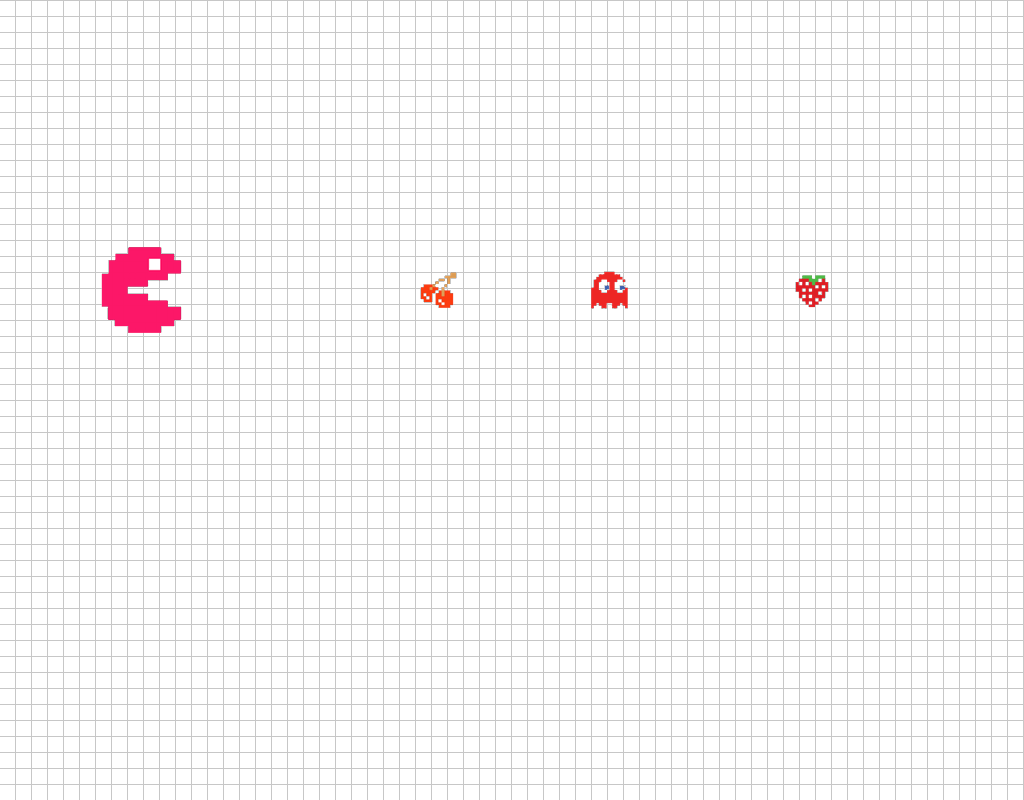
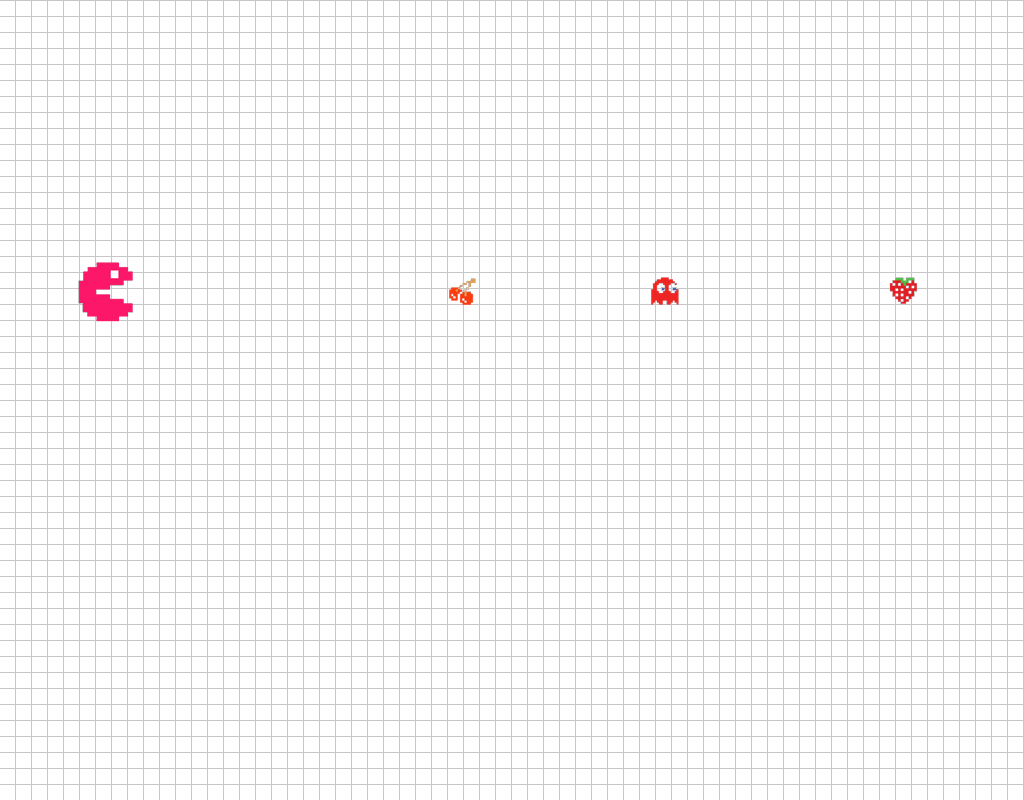
minor css

diff --git a/index.html b/index.html
@@ -14,7 +14,7 @@
 
     .pages UL LI {
   font-size: 1em !important;
-}
+  }
   .pages UL LI:nth-child(1) {
   font-size: 1.4em !important;
   border-bottom: 1px solid white;
@@ -165,8 +165,8 @@ function updateParralax() {
     $("#pacmanspace").css('height',3*(16/(1024.0/parallaxWidth)) )
   } else {
     //computer
-    $("#parallax").css('background-position-y',$("#pages").height()+$("#title").height()+30- 17*(16/(1024.0/parallaxWidth)))
-    $("#pacmanspace").css('height',3*(16/(1024.0/parallaxWidth)) )
+    $("#parallax").css('background-position-y',$("#pages").height()+$("#title").height()+30- 17.7*(16/(1024.0/parallaxWidth)))
+    $("#pacmanspace").css('height',2*(16/(1024.0/parallaxWidth)) )
     //alert($("#pages").height())
   }
 }

diff --git a/about-me.html b/about-me.html
@@ -139,8 +139,8 @@ function updateParralax() {
     $("#pacmanspace").css('height',3*(16/(1024.0/parallaxWidth)) )
   } else {
     //computer
-    $("#parallax").css('background-position-y',$("#pages").height()+$("#title").height()+30- 17*(16/(1024.0/parallaxWidth)))
-    $("#pacmanspace").css('height',3*(16/(1024.0/parallaxWidth)) )
+    $("#parallax").css('background-position-y',$("#pages").height()+$("#title").height()+30- 17.7*(16/(1024.0/parallaxWidth)))
+    $("#pacmanspace").css('height',2*(16/(1024.0/parallaxWidth)) )
     //alert($("#pages").height())
   }
   $(".leftcolumn").css('min-height',$(window).height() - $("#parallax")[0].getBoundingClientRect().height)

diff --git a/computervision.html b/computervision.html
@@ -168,8 +168,8 @@ function updateParralax() {
     $("#pacmanspace").css('height',3*(16/(1024.0/parallaxWidth)) )
   } else {
     //computer
-    $("#parallax").css('background-position-y',$("#pages").height()+$("#title").height()+30- 17*(16/(1024.0/parallaxWidth)))
-    $("#pacmanspace").css('height',3*(16/(1024.0/parallaxWidth)) )
+    $("#parallax").css('background-position-y',$("#pages").height()+$("#title").height()+30- 17.7*(16/(1024.0/parallaxWidth)))
+    $("#pacmanspace").css('height',2*(16/(1024.0/parallaxWidth)) )
     //alert($("#pages").height())
   }
 }

diff --git a/posts/mosaicing.html b/posts/mosaicing.html
@@ -163,8 +163,8 @@ function updateParralax() {
     $("#pacmanspace").css('height',3*(16/(1024.0/parallaxWidth)) )
   } else {
     //computer
-    $("#parallax").css('background-position-y',$("#pages").height()+$("#title").height()+30- 17*(16/(1024.0/parallaxWidth)))
-    $("#pacmanspace").css('height',3*(16/(1024.0/parallaxWidth)) )
+    $("#parallax").css('background-position-y',$("#pages").height()+$("#title").height()+30- 17.7*(16/(1024.0/parallaxWidth)))
+    $("#pacmanspace").css('height',2*(16/(1024.0/parallaxWidth)) )
     //alert($("#pages").height())
   }
 }

diff --git a/posts/ppyramidcnncompression.html b/posts/ppyramidcnncompression.html
@@ -163,8 +163,8 @@ function updateParralax() {
     $("#pacmanspace").css('height',3*(16/(1024.0/parallaxWidth)) )
   } else {
     //computer
-    $("#parallax").css('background-position-y',$("#pages").height()+$("#title").height()+30- 17*(16/(1024.0/parallaxWidth)))
-    $("#pacmanspace").css('height',3*(16/(1024.0/parallaxWidth)) )
+    $("#parallax").css('background-position-y',$("#pages").height()+$("#title").height()+30- 17.7*(16/(1024.0/parallaxWidth)))
+    $("#pacmanspace").css('height',2*(16/(1024.0/parallaxWidth)) )
     //alert($("#pages").height())
   }
 }

diff --git a/posts/recursivemosaic.html b/posts/recursivemosaic.html
@@ -165,8 +165,8 @@ function updateParralax() {
     $("#pacmanspace").css('height',3*(16/(1024.0/parallaxWidth)) )
   } else {
     //computer
-    $("#parallax").css('background-position-y',$("#pages").height()+$("#title").height()+30- 17*(16/(1024.0/parallaxWidth)))
-    $("#pacmanspace").css('height',3*(16/(1024.0/parallaxWidth)) )
+    $("#parallax").css('background-position-y',$("#pages").height()+$("#title").height()+30- 17.7*(16/(1024.0/parallaxWidth)))
+    $("#pacmanspace").css('height',2*(16/(1024.0/parallaxWidth)) )
     //alert($("#pages").height())
   }
 }

diff --git a/posts/satrescue.html b/posts/satrescue.html
@@ -165,8 +165,8 @@ function updateParralax() {
     $("#pacmanspace").css('height',3*(16/(1024.0/parallaxWidth)) )
   } else {
     //computer
-    $("#parallax").css('background-position-y',$("#pages").height()+$("#title").height()+30- 17*(16/(1024.0/parallaxWidth)))
-    $("#pacmanspace").css('height',3*(16/(1024.0/parallaxWidth)) )
+    $("#parallax").css('background-position-y',$("#pages").height()+$("#title").height()+30- 17.7*(16/(1024.0/parallaxWidth)))
+    $("#pacmanspace").css('height',2*(16/(1024.0/parallaxWidth)) )
     //alert($("#pages").height())
   }
 }

diff --git a/posts/sattrack.html b/posts/sattrack.html
@@ -166,8 +166,8 @@ function updateParralax() {
     $("#dynamicmath").css('font-size','70% !important;' )
   } else {
     //computer
-    $("#parallax").css('background-position-y',$("#pages").height()+$("#title").height()+30- 17*(16/(1024.0/parallaxWidth)))
-    $("#pacmanspace").css('height',3*(16/(1024.0/parallaxWidth)) )
+    $("#parallax").css('background-position-y',$("#pages").height()+$("#title").height()+30- 17.7*(16/(1024.0/parallaxWidth)))
+    $("#pacmanspace").css('height',2*(16/(1024.0/parallaxWidth)) )
     //alert($("#pages").height())
   }
 }

diff --git a/css/blog.css b/css/blog.css
@@ -152,7 +152,7 @@ p {
 }
 
 #parallax  h1{
-  font-size: 3em;
+  font-size: 2em;
   font-family:Dosis;
   padding-top: 10px;
   text-align: center;
@@ -164,13 +164,13 @@ p {
   font-weight: 15;
 }
 #parallax  h4{
-  font-size: 2em;
+  font-size: 1.5em;
   font-family:Dosis;
-  padding-top: 10px;
+  padding-top: 0px;
   text-align: center;
   margin:0px;
   color: #333333 ;
-  padding-bottom: 20px;
+  padding-bottom: 5px;
   text-shadow: 2px 2px 5px #000;
   font-weight: lighter;
 }
